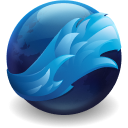
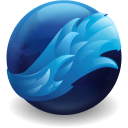
Basic Theme, 115esr Fixes tweaked branding

diff --git a/Echelon/Profile Folder/chrome/framework/apathum/scripts/menulist.js b/Echelon/Profile Folder/chrome/framework/apathum/scripts/menulist.js
@@ -69,3 +69,81 @@ document.querySelectorAll(".menulist").forEach(menulist => {
         }
     };
 });
+
+// {
+//     window.addEventListener(
+//         "echelonpopupshowing",
+//         e => {
+//             if (e.originalTarget.ownerDocument != document) {
+//                 return;
+//             }
+// 
+//             e.originalTarget.setAttribute("hasbeenopened", "true");
+//             for (let el of e.originalTarget.querySelectorAll("echelon-menulist")) {
+//                 el.render();
+//             }
+//         },
+//         { capture: true }
+//     );
+// 
+//     class EchelonMenulist extends MozElements.ButtonBase {
+//         static get fragment() {
+//             let frag = document.importNode(
+//             MozXULElement.parseXULToFragment(`
+//                     <label class="menulist-text"></label>
+//                     <image class="dropdown-marker" />
+//                 `),
+//                 true
+//             );
+//             Object.defineProperty(this, "fragment", { value: frag });
+//             return frag;
+//         }
+// 
+//         get menulist() {
+//             return this;
+//         }
+// 
+//         get _hasRendered() {
+//             return this.querySelector(":scope > .selected") != null;
+//         }
+//         
+//         get _textNode() {
+//             let node = this.querySelector(".menulist-text");
+//             if (node) {
+//             Object.defineProperty(this, "_textNode", { value: node });
+//             }
+//             return node;
+//         }
+// 
+//         connectedCallback() {
+//             if (this.delayConnectedCallback()) {
+//               return;
+//             }
+// 
+//             let panel = this.querySelector("echelon-panel");
+//             if (panel && !panel.hasAttribute("hasbeenopened")) {
+//                 return;
+//             }
+//       
+//             this.render();
+//         }
+// 
+//         render() {
+//             if (this._hasRendered) {
+//                 return;
+//             }
+// 
+//             this.appendChild(this.constructor.fragment.cloneNode(true));
+// 
+//             this.addEventListener("click", this);
+//         }
+// 
+//         on_click(event) {
+//             if (event.button != 0) {
+//                 return;
+//             }
+//         }
+//     }
+//     
+//     customElements.define("echelon-menulist", EchelonMenulist);
+// }

diff --git a/Echelon/Profile Folder/chrome/scss-src/chrome/firefox-29/_titlebar.scss b/Echelon/Profile Folder/chrome/scss-src/chrome/firefox-29/_titlebar.scss
@@ -3,9 +3,20 @@
         visibility: collapse !important;
     } 
 
-    &:not([echelon-system-style="winxp"])[tabsintitlebar][sizemode="normal"] {
-        #titlebar {
-            appearance: none !important;
+    @media (-moz-windows-compositor) { 
+        &[tabsintitlebar][sizemode="normal"] {
+            #titlebar {
+                appearance: none !important;
+            }
+        }
+    }
+
+    @media not (-moz-windows-compositor) { 
+        &[tabsintitlebar][sizemode="normal"] {
+            #titlebar {
+                appearance: auto !important;
+                -moz-default-appearance: -moz-window-titlebar !important;
+            }
         }
     }
 
@@ -22,10 +33,10 @@
     
     &[privatebrowsingmode="temporary"][tabsintitlebar] #private-browsing-indicator-titlebar > .private-browsing-indicator {
         display: block !important;
-        width: 40px;
-        height: 20px;
-        margin-inline-end: 4px;
-        background: url("chrome://echelon/content/firefox-29/privatebrowsing/privatebrowsing-mask-titlebar-XPVista7.png") no-repeat center 0px;
+        width: 40px !important;
+        height: 20px !important;
+        margin-inline-end: 4px !important;
+        background: url("chrome://echelon/content/firefox-29/privatebrowsing/privatebrowsing-mask-titlebar-XPVista7.png") no-repeat center 0px !important;
     }
 
     &[privatebrowsingmode="temporary"]:not([tabsintitlebar]) #TabsToolbar > .private-browsing-indicator {
@@ -33,10 +44,10 @@
         width: 48px !important;
         height: 32px !important;
         margin-inline-end: 4px !important;
-        background: url("chrome://echelon/content/firefox-29/privatebrowsing/privatebrowsing-mask-tabstrip-XPVista7.png") no-repeat center 0;
+        background: url("chrome://echelon/content/firefox-29/privatebrowsing/privatebrowsing-mask-tabstrip-XPVista7.png") no-repeat center 0 !important;
     }
 
-    &[echelon-system-style="winxp"] {
+    @media not (-moz-windows-compositor) { 
         &[privatebrowsingmode="temporary"][tabsintitlebar] #private-browsing-indicator-titlebar > .private-browsing-indicator {
             background-image: url("chrome://echelon/content/firefox-29/privatebrowsing/privatebrowsing-mask-titlebar-XPVista7-tall.png") !important;
             height: 28px !important;

diff --git a/Echelon/Profile Folder/chrome/JS/echelon_sysmetrics.uc.js b/Echelon/Profile Folder/chrome/JS/echelon_sysmetrics.uc.js
@@ -6,6 +6,30 @@
 // ==/UserScript==
 
 {
+    function GetSystemMetrics(aValue) {
+        if (Services.appinfo.OS == "WINNT")
+        {
+            var { ctypes } = ChromeUtils.importESModule("resource://gre/modules/ctypes.sys.mjs");
+
+            let user32 = ctypes.open("user32.dll");
+            let GetSystemMetrics = user32.declare(
+                "GetSystemMetrics",
+                ctypes.winapi_abi,
+                ctypes.int32_t,
+                ctypes.int32_t
+            );
+
+            let sysmetric = GetSystemMetrics(aValue);
+
+            user32.close();
+
+            return sysmetric;
+        }
+        else {
+            return
+        }
+    }
+
     function GetSystemColor(aValue) {
         if (Services.appinfo.OS == "WINNT")
         {
@@ -45,6 +69,8 @@
     function SetSystemColors() {
         if (Services.appinfo.OS == "WINNT")
         {
+            let paddedBorder = GetSystemMetrics(92);
+            
             document.documentElement.style.removeProperty(`--captiontext`);
             document.documentElement.style.removeProperty(`--inactivecaptiontext`);
 
@@ -55,6 +81,10 @@
             document.documentElement.style.setProperty(
                 `--inactivecaptiontext`,
                 GetSystemColor(19)
+            );
+            document.documentElement.style.setProperty(
+                `--paddedborder`,
+                `${paddedBorder}px`
             );
         }
     }

diff --git a/Echelon/Profile Folder/chrome/JS/echelon_search.uc.js b/Echelon/Profile Folder/chrome/JS/echelon_search.uc.js
@@ -111,24 +111,6 @@ class EchelonSearchManager
 		return url;
 	}
 
-	static async onMutation(list)
-	{
-		//for (const mut of list)
-		//{
-		//	if (mut.type == "attributes"
-		//	&& (mut.target.nodeName == "image"
-		//	|| mut.target.matches("img.urlbarView-favicon"))
-		//	&& mut.attributeName == "src")
-		//	{
-		//		let replacement = await this.getReplacementIcon(mut.target.getAttribute("src"));
-		//		if (replacement != mut.target.getAttribute("src"))
-		//		{
-		//			mut.target.setAttribute("src", replacement);
-		//		}
-		//	}
-		//}
-	}
-
 	static updateDisplay_hook()
 	{
 		if (this.updateDisplay_orig && this.searchbar)
@@ -166,8 +148,6 @@ class EchelonSearchManager
 	}
 }
 
-let observer = new MutationObserver(EchelonSearchManager.onMutation.bind(EchelonSearchManager));
-observer.observe(document.documentElement, { attributes: true, childList: true, subtree : true });
 EchelonSearchManager.installSearchBoxHook();
 
 const updateSeachManager = {

diff --git a/Echelon/Profile Folder/chrome/scss-src/chrome/firefox-4/_tabs.scss b/Echelon/Profile Folder/chrome/scss-src/chrome/firefox-4/_tabs.scss
@@ -370,3 +370,28 @@
 :root:not([browser-tabs-tabmanager-enabled="true"]) #tabbrowser-tabs:not([overflow], [hashiddentabs]) ~ #alltabs-button {
     display: none !important;
 }
+
+@media not (-moz-windows-compositor) {
+    :root:not([echelon-style-6]) {
+        &[tabs-on-top="true"] {
+            &:not([lwtheme="true"]) #TabsToolbar {
+                background-image: linear-gradient(to top, rgba(10%,10%,10%,.4) 1px, rgba(0,0,0,.05) 1px, transparent 50%) !important;
+                background-size: unset !important;
+            }
+
+            &:not([sizemode="maximized"]) {
+                #nav-bar {
+                    border-top: 0 !important;
+                }
+            }
+        }
+
+        &[sizemode="normal"] {
+            #TabsToolbar {
+                .toolbar-items {
+                    padding-inline: 2px !important;
+                }
+            }
+        }
+    }
+}

diff --git a/Echelon/Profile Folder/chrome/JS/echelon_layout.uc.js b/Echelon/Profile Folder/chrome/JS/echelon_layout.uc.js
@@ -416,12 +416,20 @@ let g_echelonLayoutManager;
 		};
 	});
 
-	waitForElement(".private-browsing-indicator-with-label").then(e => {
-		for (const elem of document.querySelectorAll(".private-browsing-indicator-with-label")) {
+	function replacePrivateBrowsing(indicator) {
+		for (const elem of indicator) {
 			let echelonPrivateBrowsing = window.MozXULElement.parseXULToFragment(`
 				<hbox class="private-browsing-indicator"/>
 			`);
 			elem.replaceWith(echelonPrivateBrowsing);
 		}
+	}
+
+	waitForElement(".private-browsing-indicator-with-label").then(e => {
+		replacePrivateBrowsing(document.querySelectorAll(".private-browsing-indicator-with-label"));
+	});
+	
+	waitForElement("#private-browsing-indicator-with-label").then(e => {
+		replacePrivateBrowsing(document.querySelectorAll("#private-browsing-indicator-with-label"));
 	});
 }

diff --git a/Echelon/Profile Folder/chrome/scss-src/chrome/firefox-56/_toolbars.scss b/Echelon/Profile Folder/chrome/scss-src/chrome/firefox-56/_toolbars.scss
@@ -21,9 +21,11 @@
         border-radius: var(--toolbarbutton-border-radius) !important;
     }
     
-    &[sizemode="normal"]:not([echelon-system-style="winxp"], [echelon-system-style="win8"], [echelon-system-style="win10"]) #nav-bar {
-        border-top-left-radius: 2.5px !important;
-        border-top-right-radius: 2.5px !important;
+    @media (-moz-windows-compositor) { 
+        &[sizemode="normal"]:not([echelon-system-style="winxp"], [echelon-system-style="win8"], [echelon-system-style="win10"]) #nav-bar {
+            border-top-left-radius: 2.5px !important;
+            border-top-right-radius: 2.5px !important;
+        }
     }
     
     #nav-bar {

diff --git a/Echelon/Profile Folder/chrome/framework/apathum/styles/components/_menulist.scss b/Echelon/Profile Folder/chrome/framework/apathum/styles/components/_menulist.scss
@@ -58,7 +58,8 @@
         margin-inline: 6px;
     }     
 
-    .list {
+    .list,
+    echelon-panel {
         position: fixed;
         left: 0;
         top: 0;
@@ -146,13 +147,15 @@
         }        
     }
 
-    &:not([open]) .list {
+    &:not([open]) .list,
+    &:not([open]) echelon-panel {
         opacity: 0;
         pointer-events: none;
         transform: translateY(-10px) !important;
     }
 
-    &[open] .list {
+    &[open] .list,
+    &[open] echelon-panel {
         opacity: 1;
         transform: none;
         pointer-events: all;

diff --git a/Echelon/Profile Folder/chrome/scss-src/chrome/firefox-4/_appmenu.scss b/Echelon/Profile Folder/chrome/scss-src/chrome/firefox-4/_appmenu.scss
@@ -85,6 +85,19 @@
     }
 }
 
+
+@media not (-moz-windows-compositor) {
+    :root:not([echelon-system-style="winxp"]) {
+        #appmenu-button-container {
+            height: calc(100% - 3px) !important;
+
+            #appmenu-button {
+                height: 100% !important;
+            }
+        }
+    }
+}
+
 #appmenu-button-container {
     border-bottom-left-radius: 4px !important;
     border-bottom-right-radius: 4px !important;

diff --git a/Echelon/Profile Folder/chrome/JS/echelon_pages.uc.js b/Echelon/Profile Folder/chrome/JS/echelon_pages.uc.js
@@ -29,7 +29,9 @@ function reloadStyledPages() {
     let visibleTabs = gBrowser.visibleTabs;
 
     for (const tab of visibleTabs) {
-        if (gBrowser.getBrowserForTab(tab).currentURI.spec == "about:newtab") {
+        let currentURL = gBrowser.getBrowserForTab(tab).documentURI.spec;
+
+        if (currentURL && currentURL == "about:newtab") {
             gBrowser.getBrowserForTab(tab).reload();
         }
     }

diff --git a/Echelon/Profile Folder/chrome/scss-src/chrome/firefox-4/_titlebar.scss b/Echelon/Profile Folder/chrome/scss-src/chrome/firefox-4/_titlebar.scss
@@ -128,5 +128,13 @@
 				padding-top: 2px !important;
 			}
 		}
+
+		@media not (-moz-windows-compositor) {
+			:root[sizemode="normal"][tabsintitlebar] {
+				.titlebar-buttonbox {
+					margin-block-start: var(--paddedborder);
+				}
+			}
+		}
     }
 }
